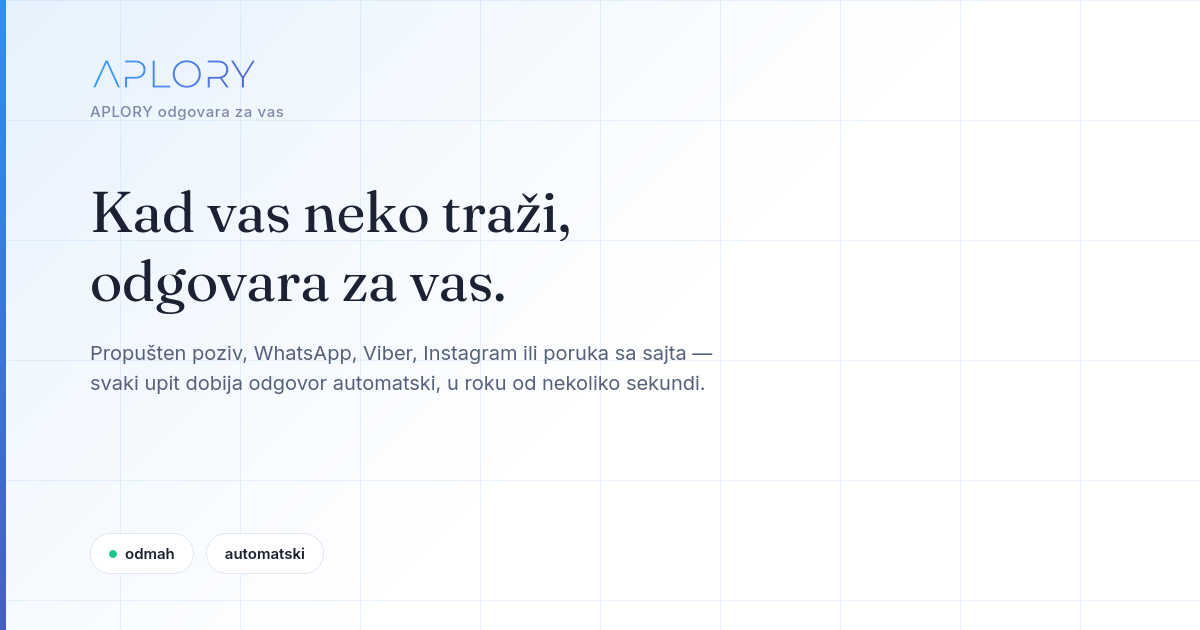
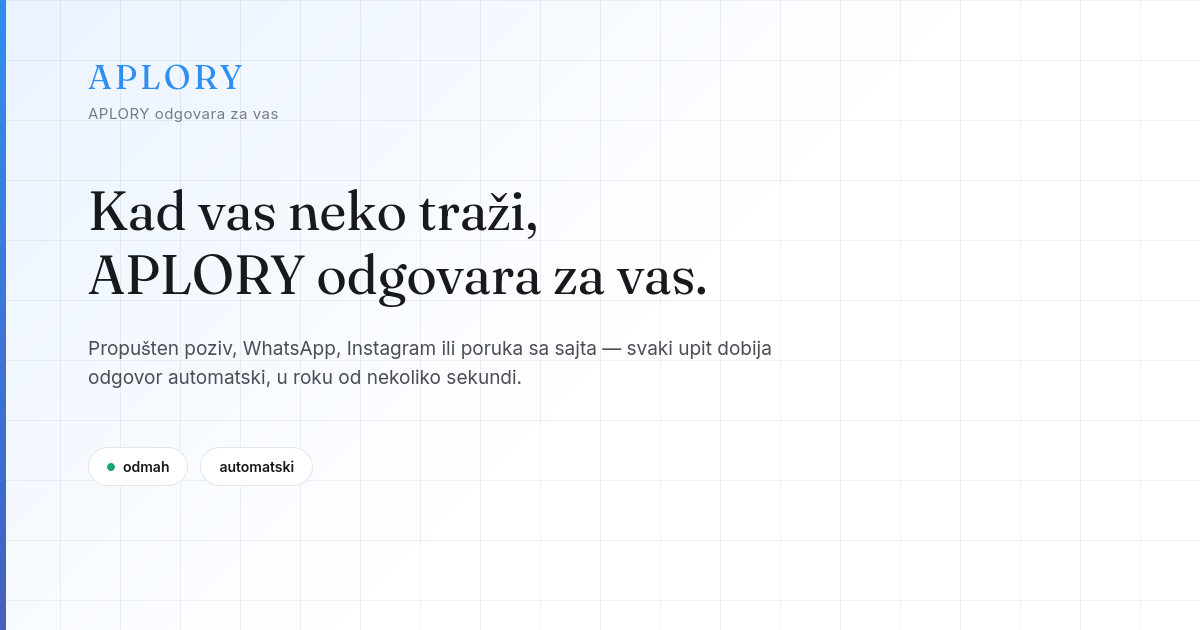
google handle and social share image preview quick fixes

diff --git a/src/i18n/sr.js b/src/i18n/sr.js
@@ -8,7 +8,7 @@
 export default {
   htmlLang: "sr",
   meta: {
-    title: "APLORY — kad vas neko traži, odgovara porukom za vas",
+    title: "kad vas neko traži — APLORY odgovara porukom za vas",
     description:
       "Propušten poziv, WhatsApp, Instagram ili poruka sa sajta. APLORY automatski odgovara porukom na svaki upit za nekoliko sekundi, dok vi radite nešto drugo.",
   },
